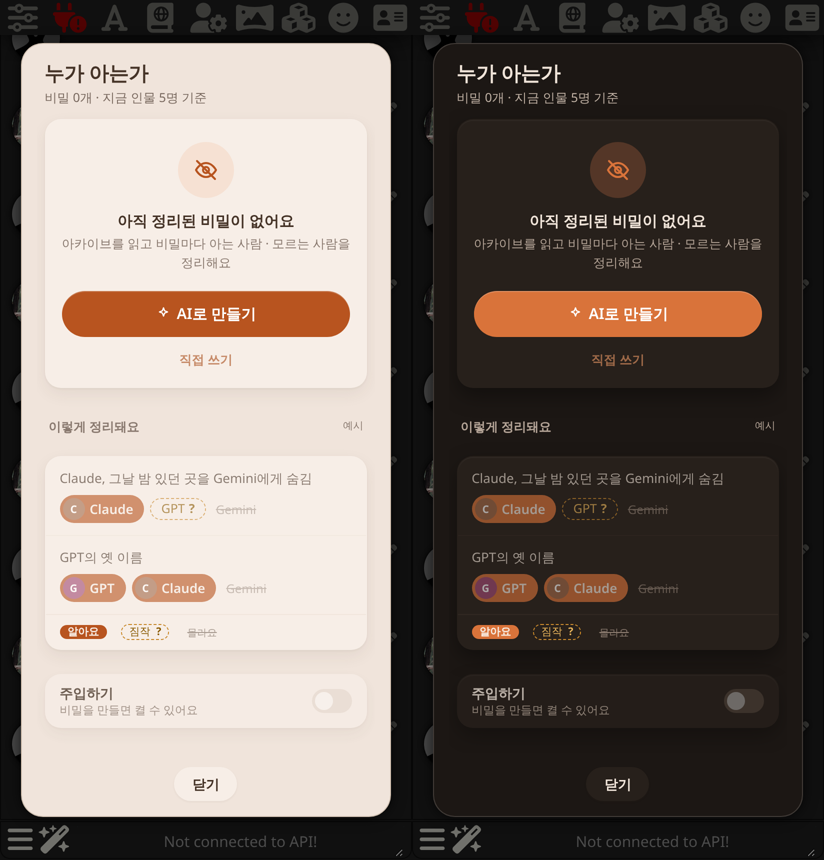
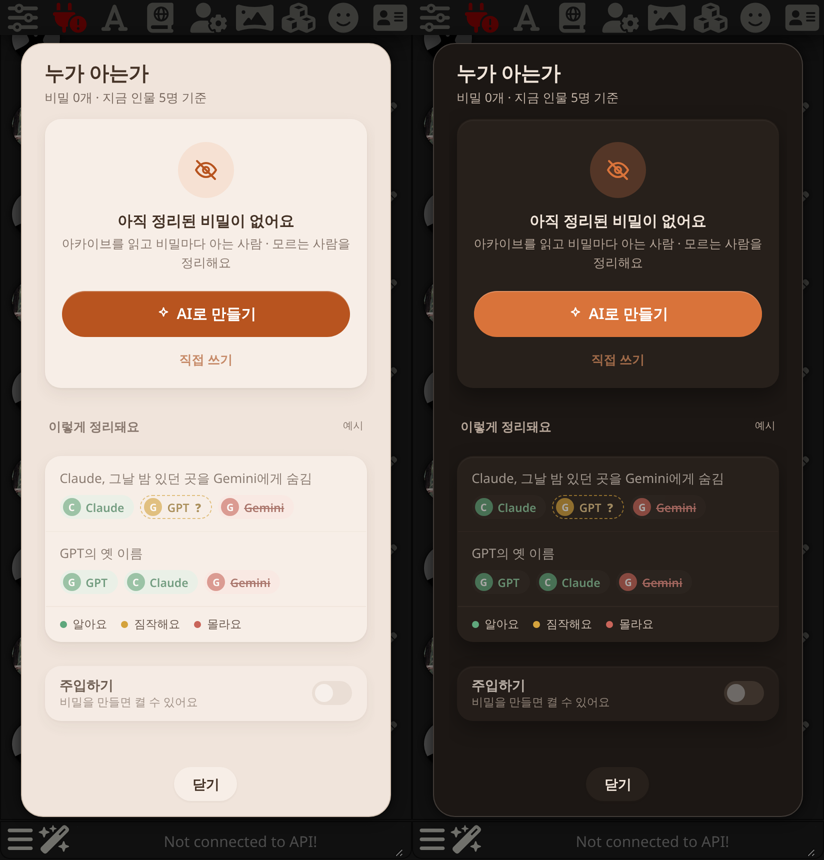
3.166.4: 누가 아는가 example tags: letter circles for everyone (green · yellow · red), dashed with ? for suspects, struck name for doesn't know
Claude-Session: https://claude.ai/code/session_01TBUyc5NesEMBcPKHWzpL6W

diff --git a/src/knowledge.js b/src/knowledge.js
@@ -202,8 +202,8 @@ export async function openKnowledge() {
     // Claude · Gemini · GPT, so nobody mistakes them for the story's own) as small dot-and-name tags
     const emptyHtml = () => {
         const [a, b, c2] = ['Claude', 'Gemini', 'GPT'];
-        // the same tags as the real list: who knows with a face, who suspects with ?, who doesn't by name
-        const tag = (n, k) => k === 'k' ? `<span class="na_kn2_k">${faceHtml(n, 22)}${esc(n)}</span>` : k === 's' ? `<span class="na_kn2_s">${esc(n)}<b>?</b></span>` : `<span class="na_kn2_u">${esc(n)}</span>`;
+        // a letter circle for everyone (green knows · yellow suspects · red doesn't), the real list's dashed ? for suspects, struck for doesn't
+        const tag = (n, k) => `<span class="na_kn3_tag ${k}"><i>${esc(n[0])}</i><em>${esc(n)}</em>${k === 's' ? '<b>?</b>' : ''}</span>`;
         return `<div class="na_v2_card na_kn3_hello"><span class="na_kn3_big"><svg width="24" height="24" viewBox="0 0 24 24" fill="none" stroke="currentColor" stroke-width="2" stroke-linecap="round" stroke-linejoin="round"><path d="M2 12s3.6-7 10-7 10 7 10 7-3.6 7-10 7S2 12 2 12z"/><circle cx="12" cy="12" r="3"/><path d="M3 3l18 18"/></svg></span>
             <b>아직 정리된 비밀이 없어요</b><small>아카이브를 읽고 비밀마다 아는 사람 · 모르는 사람을 정리해요</small>
             <button type="button" class="na_kn3_make">${svgA('<path d="M12 3l1.8 4.7L18.5 9.5l-4.7 1.8L12 16l-1.8-4.7L5.5 9.5l4.7-1.8z"/>', 15)}AI로 만들기</button>
@@ -212,7 +212,7 @@ export async function openKnowledge() {
           <div class="na_v2_card na_kn3_ex">
             <div><p>${esc(a)}, 그날 밤 있던 곳을 ${esc(b)}에게 숨김</p><span class="na_kn_people">${tag(a, 'k')}${tag(c2, 's')}${tag(b, 'u')}</span></div>
             <div><p>${esc(c2)}의 옛 이름</p><span class="na_kn_people">${tag(c2, 'k')}${tag(a, 'k')}${tag(b, 'u')}</span></div>
-            <div class="na_kn3_leg na_kn_people"><span class="na_kn2_k mini">알아요</span><span class="na_kn2_s mini">짐작<b>?</b></span><span class="na_kn2_u">몰라요</span></div>
+            <div class="na_kn3_leg"><span class="k"><i></i>알아요</span><span class="s"><i></i>짐작해요</span><span class="u"><i></i>몰라요</span></div>
           </div>`;
     };
     $root.on('click', '.na_kn3_make', () => $root.find('.na_kn_ai').trigger('click'));

diff --git a/style.css b/style.css
@@ -7470,3 +7470,9 @@ body.na_darkui .na_kn3_tag.k { background: #2F2722; color: #8FD3A6; } body.na_da
 .na_kn2.na_kn3_new .na_kn_inject { margin-top: 12px; border-color: transparent; box-shadow: 0 1px 2px rgba(70, 52, 40, 0.05), 0 6px 16px rgba(70, 52, 40, 0.07); }
 .na_kn2.na_kn3_new .na_kn_inject:has(input:disabled) { opacity: 0.75; }
 body.na_darkui :is(.na_kn3_hello, .na_kn3_ex, .na_kn2.na_kn3_new .na_kn_inject) { box-shadow: inset 0 1px 0 rgba(255, 255, 255, 0.04), 0 8px 20px rgba(0, 0, 0, 0.35); }
+
+/* 누가 아는가 example tags: circles for everyone, dashed + ? for suspects, struck for doesn't know */
+.na_kn3_tag.s { background: transparent !important; border: 1.5px dashed #D4A23C; box-sizing: border-box; }
+.na_kn3_tag em { font-style: normal; }
+.na_kn3_tag.s b { margin-left: 1px; }
+.na_kn3_tag.u em { text-decoration: line-through; text-decoration-thickness: 1px; }

diff --git a/src/core.js b/src/core.js
@@ -12,7 +12,7 @@ import { parseSections } from './sections.js';
 
 export const MODULE = 'narrative_archive';
 export const PROMPT_KEY = 'narrative_archive_injection';
-export const VERSION = '3.166.3';
+export const VERSION = '3.166.4';
 export const SNAPSHOT_MAX = 5;
 export const SNAPSHOT_MAX_CHARS = 2_000_000;
 
